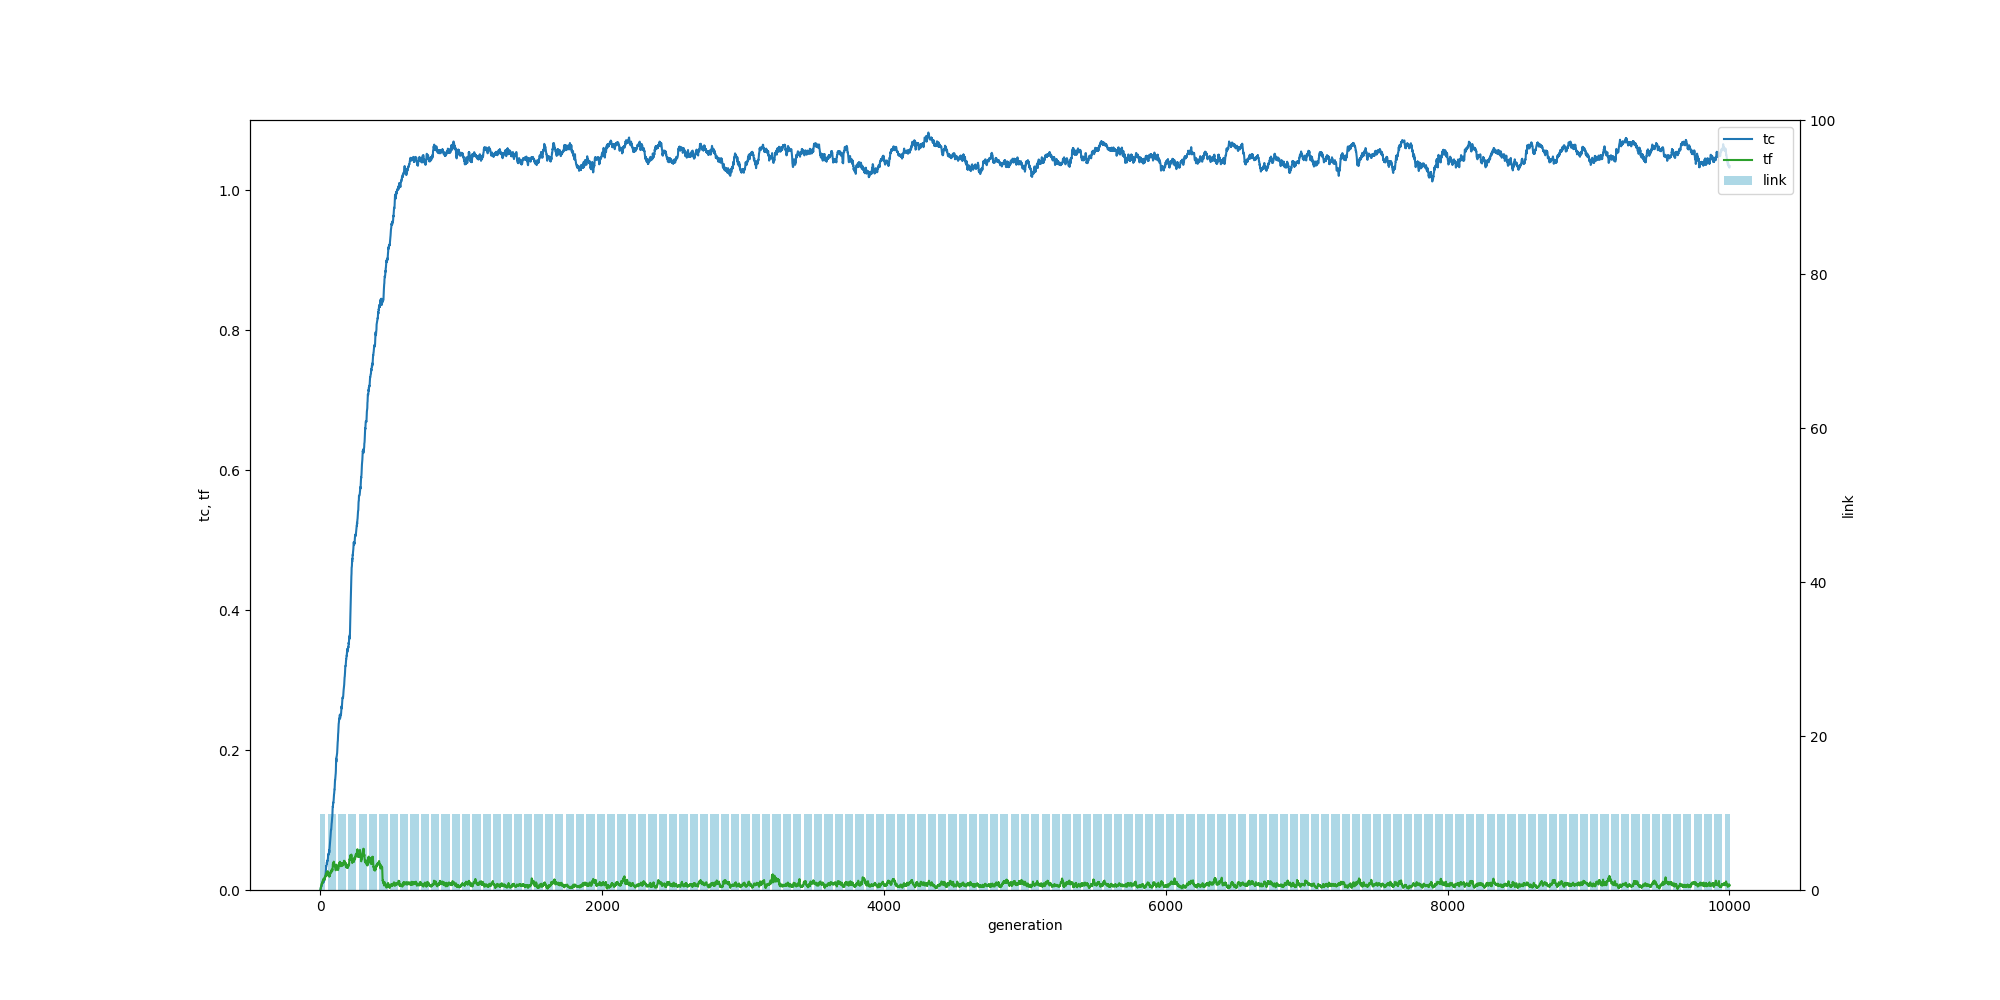
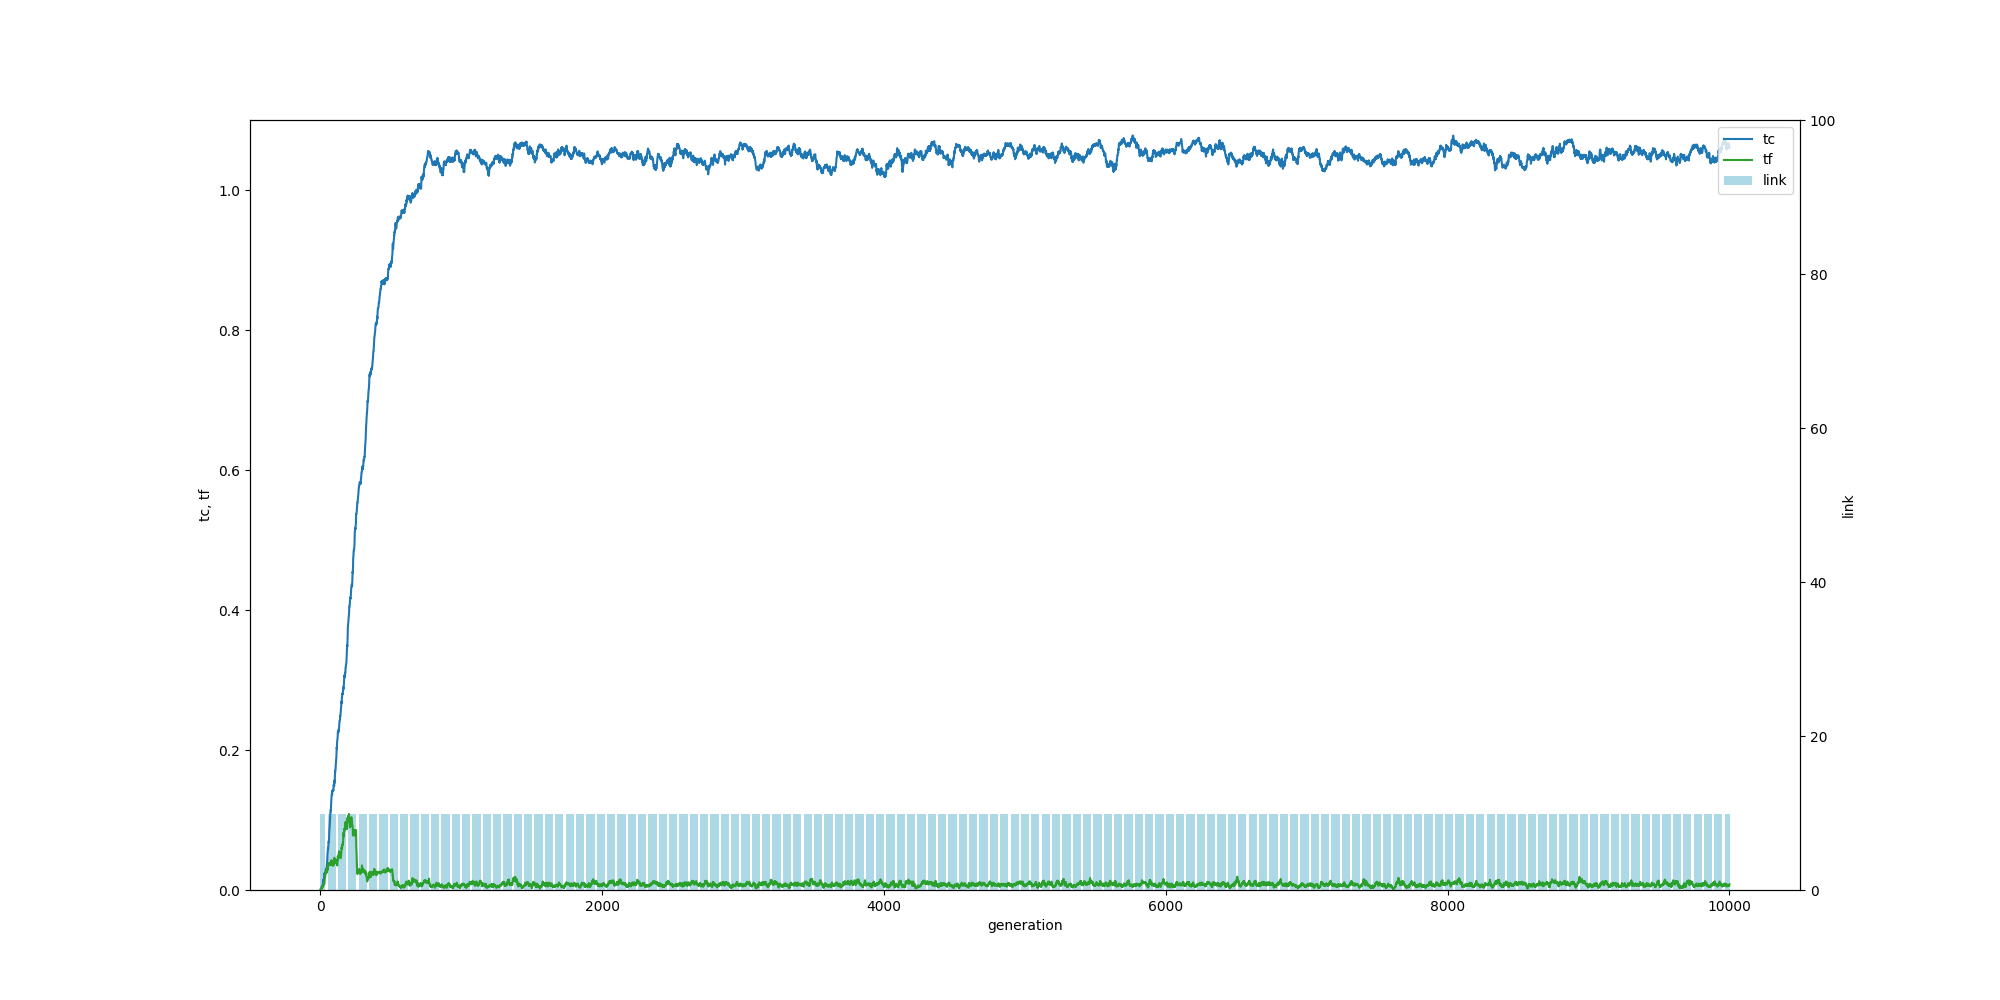
commit

Changed region(s): [[0.186, 0.124, 0.868, 0.248], [0.155, 0.806, 0.868, 0.899]]

diff --git a/src/src8/link_form_pic5.py b/src/src8/link_form_pic5.py
@@ -11,16 +11,21 @@ from matplotlib.animation import FuncAnimation
 from datetime import datetime
 from statistics import mean
 
-names = ["3_keepd_01_form_or_t1_g10000_r100_w10000_b1",
-         "3_keepd_03_form_or_t1_g10000_r100_w10000_b1",
-         "3_keepd_05_form_or_t1_g10000_r100_w10000_b1",
-         "3_keepd_07_form_or_t1_g10000_r100_w10000_b1",
-         "3_keepd_09_form_or_t1_g10000_r100_w10000_b1",
-         "3_keepd_01_form_or_t1_g10000_r100_w50000_b1",
-         "3_keepd_03_form_or_t1_g10000_r100_w50000_b1",
-         "3_keepd_05_form_or_t1_g10000_r100_w50000_b1",
-         "3_keepd_07_form_or_t1_g10000_r100_w50000_b1",
-         "3_keepd_09_form_or_t1_g10000_r100_w50000_b1",
+names = ["3_keepd_01_form_or_t10_g10000_r100_w1000_b1",
+         "3_keepd_03_form_or_t10_g10000_r100_w1000_b1",
+         "3_keepd_05_form_or_t10_g10000_r100_w1000_b1",
+         "3_keepd_07_form_or_t10_g10000_r100_w1000_b1",
+         "3_keepd_09_form_or_t10_g10000_r100_w1000_b1",
+         "3_keepd_01_form_or_t10_g10000_r100_w3000_b1",
+         "3_keepd_03_form_or_t10_g10000_r100_w3000_b1",
+         "3_keepd_05_form_or_t10_g10000_r100_w3000_b1",
+         "3_keepd_07_form_or_t10_g10000_r100_w3000_b1",
+         "3_keepd_09_form_or_t10_g10000_r100_w3000_b1",
+         "3_keepd_01_form_or_t10_g10000_r100_w5000_b1",
+         "3_keepd_03_form_or_t10_g10000_r100_w5000_b1",
+         "3_keepd_05_form_or_t10_g10000_r100_w5000_b1",
+         "3_keepd_07_form_or_t10_g10000_r100_w5000_b1",
+         "3_keepd_09_form_or_t10_g10000_r100_w5000_b1",
          ] #TODO:
 
 def Graph_avr_tc_tf(csv, name):
